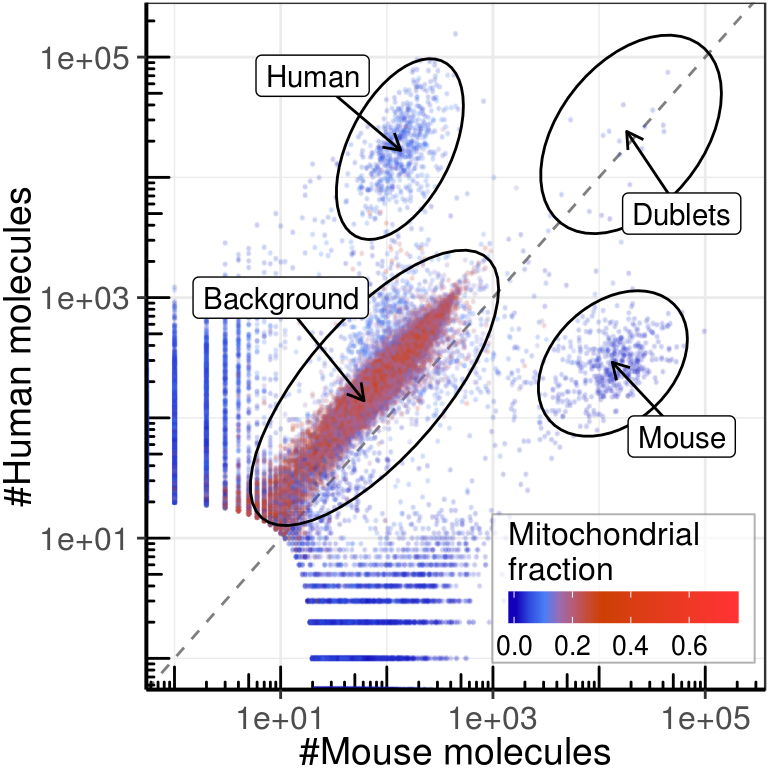
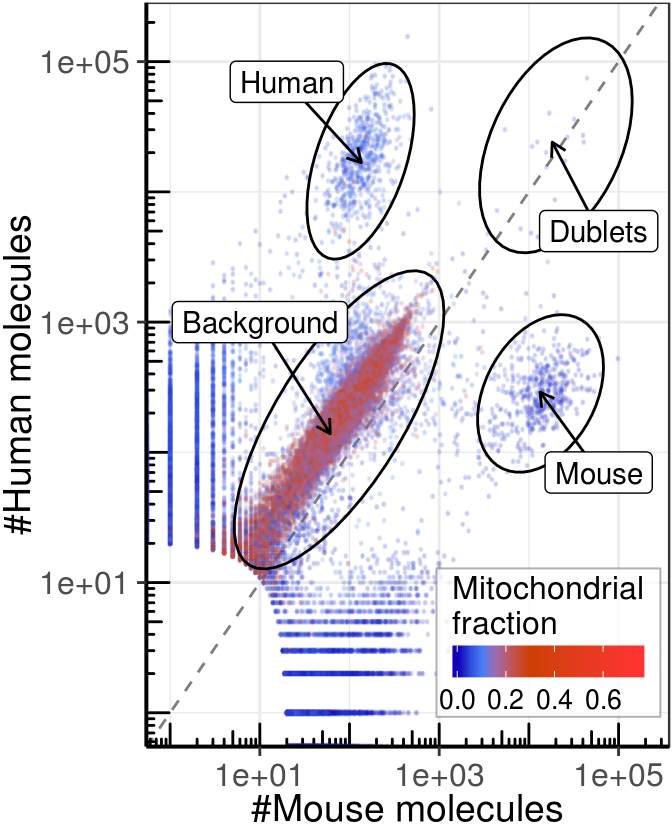
Publish human/mouse figures

diff --git a/docs/human_mouse__hm_drop_seq.html b/docs/human_mouse__hm_drop_seq.html
@@ -315,7 +315,7 @@ div.section {
 
 <p><strong>Source file:</strong> notebooks/human_mouse/hm_drop_seq.Rmd</p>
 <p><strong>Last updated:</strong> 2018-02-04</p>
-<p><strong>Code version:</strong> a288c05</p>
+<p><strong>Code version:</strong> 0306e1c</p>
 <pre class="r"><code>library(ggplot2)
 library(ggrastr)
 library(dplyr)
@@ -415,24 +415,29 @@ gg</code></pre>
   mutate(Mouse=c(1e1, 6e4, 2e1, 6e4), 
          Human=c(1e3, 5e3, 7e4, 7e1))
 
+fig_width &lt;- 3.7
+fig_height &lt;- 4.4
+
 gg_fig &lt;- gg_template + 
-  geom_point_rast(aes(color=MitochondrionFraction), size=0.2, alpha=0.15, width=4, 
-                  height=4, dpi=200) +
+  geom_point_rast(aes(color=MitochondrionFraction), size=0.2, alpha=0.15, 
+                  width=fig_width, height=fig_height, dpi=200) +
   scale_color_gradientn(colours=c(&quot;#1200ba&quot;, &quot;#347fff&quot;, &quot;#cc4000&quot;, &quot;#ff3333&quot;), 
                         values=scales::rescale(c(0, 0.1, 0.3, 0.8)), 
                         breaks=seq(0, 1.0, 0.2)) +
   guides(color=guide_colorbar(direction=&quot;horizontal&quot;, title.position=&quot;top&quot;, 
                               title=&quot;Mitochondrial\nfraction&quot;, 
-                              barwidth=unit(1.2, units=&quot;in&quot;))) + 
+                              barwidth=unit(1.0, units=&quot;in&quot;))) + 
   stat_ellipse(aes(group=Type), level=0.99) +
   geom_segment(aes(xend=MouseEnd, yend=HumanEnd, group=Type),  data=arrows_df, 
                arrow=arrow(length = unit(0.03, &quot;npc&quot;))) +
   geom_label(aes(label=Type),  data=arrows_df, fill=alpha(&#39;white&#39;, 1)) +
   theme(plot.margin=margin(1, 1, 1, 1))
 
-ggsave(paste0(kPlotDir, &#39;fig_human_mouse.pdf&#39;), gg_fig, width=4, height=4)</code></pre>
+try(invisible(dev.off()), silent=T)
+ggsave(paste0(kPlotDir, &#39;fig_human_mouse.pdf&#39;), gg_fig, 
+       width=fig_width, height=fig_height)</code></pre>
 <pre class="r"><code>gg_fig</code></pre>
-<p><img src="figure/hm_drop_seq.Rmd/unnamed-chunk-10-1.png" width="384" style="display: block; margin: auto;" /></p>
+<p><img src="figure/hm_drop_seq.Rmd/unnamed-chunk-10-1.png" width="336" style="display: block; margin: auto;" /></p>
 </div>
 <div id="session-information" class="section level2">
 <h2>Session information</h2>

diff --git a/docs/human_mouse__hm_10x_6k.html b/docs/human_mouse__hm_10x_6k.html
@@ -315,7 +315,7 @@ div.section {
 
 <p><strong>Source file:</strong> notebooks/human_mouse/hm_10x_6k.Rmd</p>
 <p><strong>Last updated:</strong> 2018-02-04</p>
-<p><strong>Code version:</strong> a288c05</p>
+<p><strong>Code version:</strong> 0306e1c</p>
 <pre class="r"><code>library(ggplot2)
 library(ggrastr)
 library(dropestr)
@@ -436,6 +436,7 @@ gg_fig &lt;- gg_template +
   geom_label(aes(label=Type),  data=arrows_df, fill=alpha(&#39;white&#39;, 1)) +
   theme(plot.margin=margin(1, 1, 1, 1))
 
+try(invisible(dev.off()), silent=T)
 ggsave(paste0(kPlotDir, &#39;supp_human_mouse.pdf&#39;), gg_fig, width=6, height=4)</code></pre>
 <pre class="r"><code>gg_fig</code></pre>
 <p><img src="figure/hm_10x_6k.Rmd/unnamed-chunk-9-1.png" width="576" style="display: block; margin: auto;" /></p>
